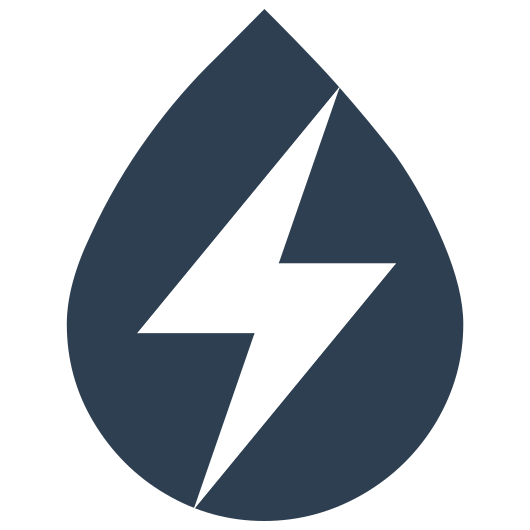
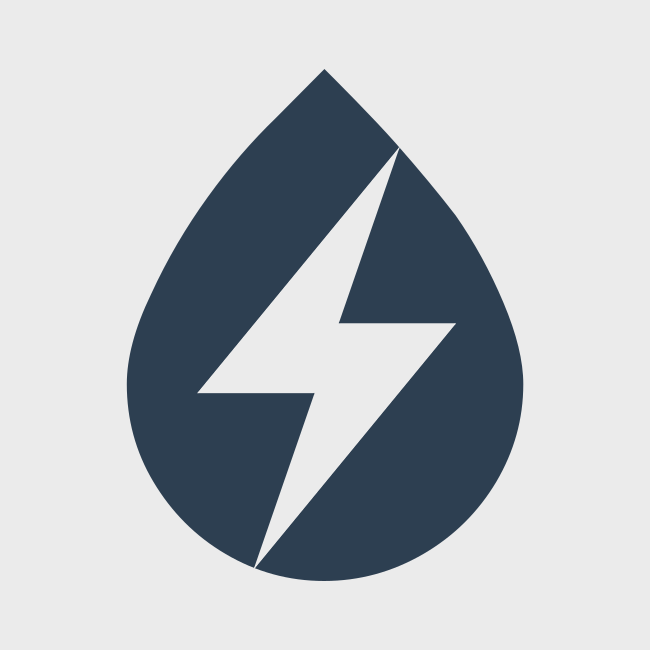
Fix status bar visibility

Changed region(s): [[0.1208, 0.0, 0.8755, 0.9962]]

diff --git a/App.js b/App.js
@@ -31,7 +31,10 @@ export default function App() {
 
   return (
     <GestureHandlerRootView style={{ flex: 1 }}>
-      <StatusBar backgroundColor="#ffffff" barStyle="dark-content" />
+      <StatusBar 
+        backgroundColor={splashDone ? "#ffffff" : "#2D3F51"} 
+        barStyle={splashDone ? "dark-content" : "light-content"}
+      />
       <SafeAreaView style={s.safe}>
         <View style={s.content}>
           {screen === 'bills'
@@ -57,7 +60,7 @@ export default function App() {
 
         {!splashDone && (
           <Animated.View style={[s.splash, { opacity: splashOpacity }]}>
-            <Image source={require('./assets/splash.png')} style={{ width: 200, height: 200 }} resizeMode="contain" />
+            <Image source={require('./assets/splash.png')} style={{ width: 130, height: 130 }} resizeMode="contain" />
           </Animated.View>
         )}
 